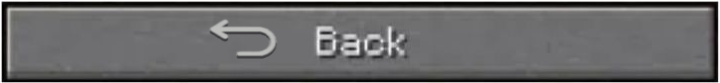
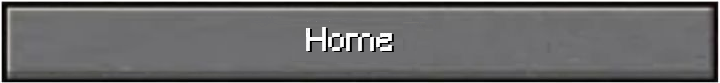
details
wed

Changed region(s): [[0.4278, 0.3133, 0.5806, 0.7229], [0.275, 0.241, 0.3972, 0.7229]]

diff --git a/inspo.html b/inspo.html
@@ -7,22 +7,27 @@
     <link rel="stylesheet" href="style.css"/>
 </head>
 <body>
-<a href="index.html"><div class="back-button"><img src="back-image.jpg" alt="back-button" class="back-image"></div></a>    
-<p>looking for something more specific? <a href="https://www.grabcraft.com/">GrabCraft</a> is the website for you, 
-     it has heaps of different build designs with super simple instructions.</p>
-     <br>
-     <br>
-     <div class="words">
-        <br>
-     <p>FAQs about Minecraft</p>
-     <br>
-     <p>Tips and tricks, intermediate level</p>
-     <br>
-     <p>Beginer tips and how to play </p>
-     <br>
-     <p>Inspiration</p>
-     <br>
-     </div>
+    <!---back button that takes user to home screen/--->
+    <a href="index.html"><div class="back-button"><img src="back-image.jpg" alt="back-button" class="back-image"></div></a>  
+
+     <!--title-->
+     <h1>Inspiration for your next Minecraft build</h1>  
+         <p>looking for something more specific? <a href="https://www.grabcraft.com/">GrabCraft</a> is the website for you, 
+         it has heaps of different build designs with super simple instructions.</p>
+    <div class="buttons">
+     <a href="tips.html"> 
+         <img class="button-icons" src="beginner.jpg" alt="beginner-tip-button">
+     </a>  
+     <a href="intermediate.html">
+         <img class="button-icons" src="tips-and-tricks.jpg" alt="tips-and-tricks-button">
+     </a>
+     <a href="FAQ.html">
+         <img class="button-icons" src="FAQs.jpg" alt="FAQs-button">
+     </a>
+     <a href="index.html">
+         <img class="button-icons" src="home.jpg" alt="home-button">
+     </a>
+    </div>
 
 </body>   
 </html>

diff --git a/tips.html b/tips.html
@@ -1,14 +1,35 @@
 <!DOCTYPE html>
 <html lang="en">
-<head>
+ <head>
     <meta charset="UTF-8">
     <meta name="viewport" content="width=device-width, initial-scale=1.0">
     <title>Document</title>
     <link rel="stylesheet" href="style.css"/>
-</head>
-<body>
- <a href="index.html"><div class="back-button"><img src="back-image.jpg" alt="back-button" class="back-image"></div></a> 
- <h1>how to play Minecraft for beginners</h1> 
+ </head>
+     <body>
+            <!---back button that takes user to home screen/--->
+         <a href="index.html">
+             <div class="back-button">
+                 <img src="back-image.jpg" alt="back-button" class="back-image">
+             </div>
+         </a> 
+             <!--title-->
+             <h1>how to play Minecraft for beginners</h1> 
+
+            <div class="buttons"> 
+             <a href="intermediate.html">
+                 <img class="button-icons" src="tips-and-tricks.jpg" alt="tips-and-tricks-button">
+             </a>
+             <a href="FAQ.html">
+                 <img class="button-icons" src="FAQs.jpg" alt="FAQ-button">
+             </a>
+             <a href="inspo.html"> 
+                 <img class="button-icons" src="inspiration-button.jpg" alt="inspo-button">
+             </a>
+             <a href="index.html">
+                 <img class="button-icons" src="home.jpg" alt="home-button">
+             </a>
+            </div>
 
 </body>   
 </html>

diff --git a/style.css b/style.css
@@ -109,7 +109,7 @@ text-decoration: none;
     background-repeat: no-repeat;
     color: rgb(237, 243, 182);
     text-shadow: 
-            1px -1px 0 rgb(123, 129, 59),  
+         1px -1px 0 rgb(123, 129, 59),  
             -1px 1px 0 rgb(123, 129, 59),
             1px -1px 0  rgb(123, 129, 59),
             1px 1px 0 rgb(123, 129, 59),
@@ -136,12 +136,12 @@ h3{
 }
 
 ul{
-font-family: minecraft;
+   font-family: minecraft;
 }
 
 ol{
-font-family: minecraft;
-font-size: -2px;
+   font-family: minecraft;
+   font-size: -2px;
 }
 @font-face {
     font-family: minecraft;
@@ -167,13 +167,23 @@ font-size: -2px;
 }
 
 .back-image{
-margin-left: 0px;
-margin-top: 0px;
-margin-bottom: 10px;
-width: 300px;
+    margin-left: 0px;
+    margin-top: 0px;
+    margin-bottom: 10px;
+    width: 300px;
 }
 .words{
     text-align: center;
     font-size:x-large;
- color: black;
+    color: black;
+}
+.buttons{
+    display: flex;
+    flex-direction: column;
+    flex-wrap: nowrap;
+    align-content: space-evenly;
+    justify-content: center;
+}
+.button-icons{
+    width: 500px;
 }

diff --git a/intermediate.html b/intermediate.html
@@ -7,8 +7,10 @@
     <link rel="stylesheet" href="style.css"/>
 </head>
 <body>
+         <!---back button that takes user to home screen/--->
  <a href="index.html"><div class="back-button"><img src="back-image.jpg" alt="back-button" 
      class="back-image"></div></a>  
+      <!--title-->
     <h1>Tips and Tricks for intermediate level players</h1>
       <br>
        <h3>Tips and tricks for creative mode</h3>
@@ -93,4 +95,19 @@
              drop cooked food rather than raw food.
          </li>
     </ul>
+     <div class="buttons">
+      <a href="tips.html">
+           <img class="button-icons" src="beginner.jpg" alt="beginner-tip-button">
+      </a>  
+      <a href="FAQ.html">
+           <img class="button-icons" src="FAQs.jpg" alt="FAQs-button">
+      </a>
+      <a href="inspo.html">
+           <img class="button-icons" src="inspiration-button.jpg" alt="inspo-button">
+      </a>     
+      <a href="index.html">
+           <img class="button-icons" src="home.jpg" alt="home-button">
+      </a>
+     </div>
 </body>
+</html>

diff --git a/FAQ.html b/FAQ.html
@@ -7,5 +7,24 @@
     <link rel="stylesheet" href="style.css"/>
 </head>
 <body>
-    <a href="index.html"><div class="back-button"><img src="back-image.jpg" alt="back-button"></div></a>  
+        <!---back button that takes user to home screen/--->
+    <a href="index.html"><div class="back-button"><img src="back-image.jpg" alt="back-button"></div></a>
+
+     <!--title-->
+     <h1>Frequently asked questions about Minecraft</h1>  
+
+    <div class="buttons">
+     <a href="tips.html"> 
+        <img class="button-icons" src="beginner.jpg" alt="beginner-tip-button">
+     </a>  
+     <a href="intermediate.html">
+        <img class="button-icons" src="tips-and-tricks.jpg" alt="tips-and-tricks-button">
+     </a>
+     <a href="inspo.html">
+         <img class="button-icons" src="inspiration-button.jpg" alt="inspo-button">
+     </a>
+     <a href="index.html">
+        <img class="button-icons" src="home.jpg" alt="home-button">
+     </a>
+    </div>
 </body>    
